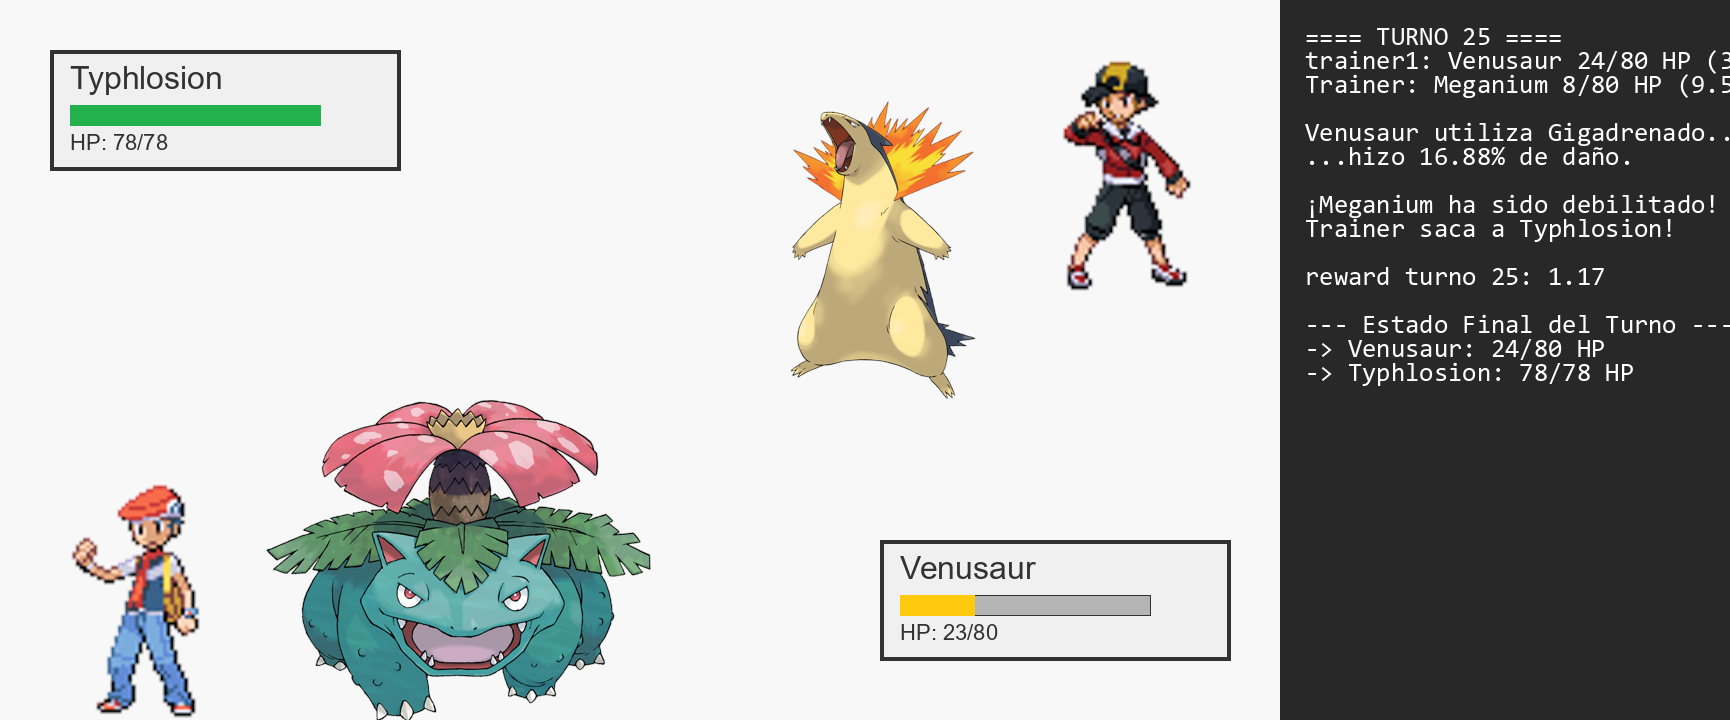
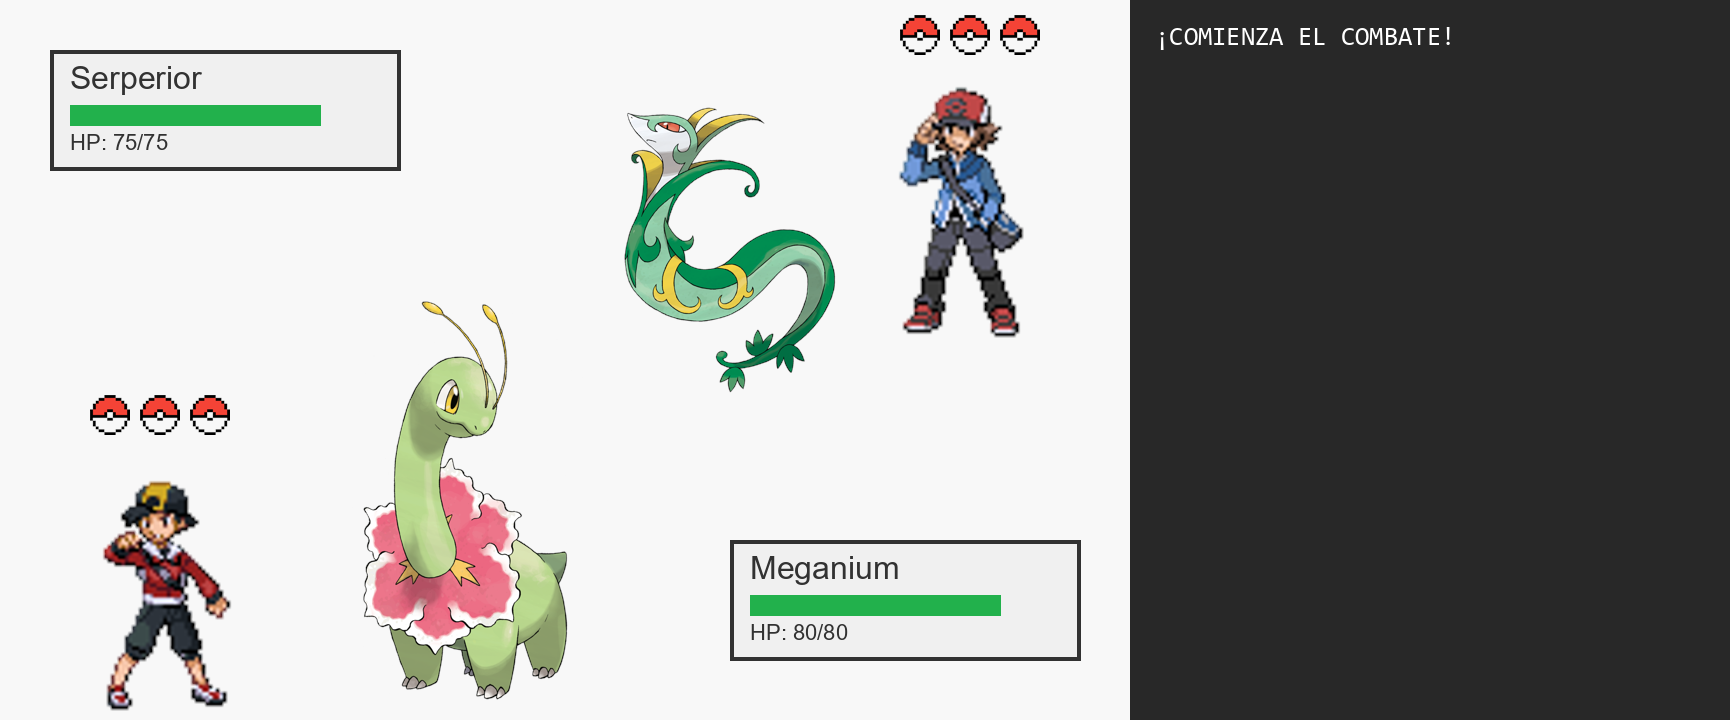
reward function mejorado, mejoras visuales, arreglo de bugs

diff --git a/image_generator.py b/image_generator.py
@@ -2,108 +2,111 @@
 
 from PIL import Image, ImageDraw, ImageFont
 from classes import Pokemon, Entrenador
-from data import crear_todos_los_entrenadores # Para probar
 
 # --- Constantes de configuración para la imagen ---
-ANCHO_AREA_BATALLA = 1280
-ANCHO_PANEL_TEXTO = 450
+ANCHO_AREA_BATALLA = 1130
+ANCHO_PANEL_TEXTO = 600
 ANCHO_CANVAS = ANCHO_AREA_BATALLA + ANCHO_PANEL_TEXTO
 ALTO_CANVAS = 720
+COLOR_FONDO_BATALLA, COLOR_PANEL_TEXTO, COLOR_TEXTO_PANEL = (248, 248, 248), (40, 40, 40), (255, 255, 255)
+TAMANIO_POKE_JUGADOR, TAMANIO_POKE_OPONENTE, TAMANIO_ENTRENADOR = (400, 400), (300, 300), (280, 280)
 
-# Colores
-COLOR_FONDO_BATALLA = (248, 248, 248)
-COLOR_PANEL_TEXTO = (40, 40, 40)
-COLOR_TEXTO_PANEL = (255, 255, 255)
-
-# Tamaños
-TAMANIO_POKE_JUGADOR = (400, 400)
-TAMANIO_POKE_OPONENTE = (300, 300)
-TAMANIO_ENTRENADOR = (280, 280)
-
-# Posiciones (x, y)
+# <<< POSICIONES AJUSTADAS >>>
 POS_ENTRENADOR_JUGADOR = (20, ALTO_CANVAS - TAMANIO_ENTRENADOR[1])
-POS_POKE_JUGADOR = (260, ALTO_CANVAS - TAMANIO_POKE_JUGADOR[1] + 40)
-POS_ENTRENADOR_OPONENTE = (ANCHO_AREA_BATALLA - TAMANIO_ENTRENADOR[0] - 20, 20)
+POS_POKE_JUGADOR = (260, ALTO_CANVAS - TAMANIO_POKE_JUGADOR[1] - 20) # Movido hacia arriba
+POS_ENTRENADOR_OPONENTE = (ANCHO_AREA_BATALLA - TAMANIO_ENTRENADOR[0] - 20, 60) # Movido hacia abajo
 POS_POKE_OPONENTE = (ANCHO_AREA_BATALLA - TAMANIO_POKE_OPONENTE[0] - 250, 100)
 
-# Barras de vida
-ANCHO_BARRA_VIDA = 250
-ALTO_BARRA_VIDA = 20
-COLOR_VERDE = (34, 177, 76)
-COLOR_AMARILLO = (255, 201, 14)
-COLOR_ROJO = (237, 28, 36)
-COLOR_BORDE_BARRA = (50, 50, 50)
+ANCHO_BARRA_VIDA, ALTO_BARRA_VIDA, COLOR_BORDE_BARRA = 250, 20, (50, 50, 50)
+COLOR_VERDE, COLOR_AMARILLO, COLOR_ROJO = (34, 177, 76), (255, 201, 14), (237, 28, 36)
 
+# <<< NUEVAS CONSTANTES PARA LAS POKÉ BALLS >>>
+TAMANIO_POKEBALL = (40, 40)
+ESPACIO_POKEBALL = 10
+POS_POKEBALLS_JUGADOR = (POS_ENTRENADOR_JUGADOR[0]+70, POS_ENTRENADOR_JUGADOR[1] - TAMANIO_POKEBALL[1] - 5)
+POS_POKEBALLS_OPONENTE = (POS_ENTRENADOR_OPONENTE[0]+70, POS_ENTRENADOR_OPONENTE[1] - TAMANIO_POKEBALL[1] - 5)
 
 def _get_color_vida(porcentaje_vida):
-    """Devuelve el color de la barra de vida según el porcentaje."""
-    if porcentaje_vida > 0.5:
-        return COLOR_VERDE
-    elif porcentaje_vida > 0.2:
-        return COLOR_AMARILLO
-    else:
-        return COLOR_ROJO
+    if porcentaje_vida > 0.5: return COLOR_VERDE
+    elif porcentaje_vida > 0.2: return COLOR_AMARILLO
+    else: return COLOR_ROJO
+
+def _dibujar_pokeballs(lienzo, pokeballs_vivas: int, pos_inicial: tuple, sprite_viva, sprite_derrotada):
+    """Función auxiliar para dibujar las 3 Poké Balls de estado."""
+    for i in range(3):
+        pos_x = pos_inicial[0] + i * (TAMANIO_POKEBALL[0] + ESPACIO_POKEBALL)
+        pos_y = pos_inicial[1]
+        
+        if i < pokeballs_vivas:
+            lienzo.paste(sprite_viva, (pos_x, pos_y), sprite_viva)
+        else:
+            lienzo.paste(sprite_derrotada, (pos_x, pos_y), sprite_derrotada)
 
 def crear_imagen_combate(
-    entrenador1: Entrenador, pokemon1: Pokemon, vida_actual1: float,
-    entrenador2: Entrenador, pokemon2: Pokemon, vida_actual2: float,
-    texto_combate: str,
+    entrenador1: Entrenador, entrenador2: Entrenador, texto_combate: str,
+    pokemon_left1: int, pokemon_left2: int, # <<< NUEVOS PARÁMETROS
+    pokemon1: Pokemon = None, vida_actual1: float = 0,
+    pokemon2: Pokemon = None, vida_actual2: float = 0,
     output_path="combate.png"
 ):
-    """
-    Crea una imagen estática de una escena de combate con un panel de texto.
-    """
     lienzo = Image.new('RGBA', (ANCHO_CANVAS, ALTO_CANVAS), COLOR_FONDO_BATALLA)
     
     try:
         sprite_entrenador1 = Image.open(entrenador1.imagen).convert("RGBA").resize(TAMANIO_ENTRENADOR)
         sprite_entrenador2 = Image.open(entrenador2.imagen).convert("RGBA").resize(TAMANIO_ENTRENADOR)
-        sprite_pokemon1 = Image.open(pokemon1.imagen).convert("RGBA").transpose(Image.FLIP_LEFT_RIGHT).resize(TAMANIO_POKE_JUGADOR)
-        sprite_pokemon2 = Image.open(pokemon2.imagen).convert("RGBA").resize(TAMANIO_POKE_OPONENTE)
-
         lienzo.paste(sprite_entrenador1, POS_ENTRENADOR_JUGADOR, sprite_entrenador1)
         lienzo.paste(sprite_entrenador2, POS_ENTRENADOR_OPONENTE, sprite_entrenador2)
-        lienzo.paste(sprite_pokemon1, POS_POKE_JUGADOR, sprite_pokemon1)
-        lienzo.paste(sprite_pokemon2, POS_POKE_OPONENTE, sprite_pokemon2)
+
+        if pokemon1:
+            sprite_pokemon1 = Image.open(pokemon1.imagen).convert("RGBA").transpose(Image.FLIP_LEFT_RIGHT).resize(TAMANIO_POKE_JUGADOR)
+            lienzo.paste(sprite_pokemon1, POS_POKE_JUGADOR, sprite_pokemon1)
+        if pokemon2:
+            sprite_pokemon2 = Image.open(pokemon2.imagen).convert("RGBA").resize(TAMANIO_POKE_OPONENTE)
+            lienzo.paste(sprite_pokemon2, POS_POKE_OPONENTE, sprite_pokemon2)
+
+        # <<< LÓGICA PARA DIBUJAR POKÉ BALLS >>>
+        pokeball_viva = Image.open("assets/images/other_images/pokeball.png").convert("RGBA").resize(TAMANIO_POKEBALL)
+        pokeball_derrotada = Image.open("assets/images/other_images/pokeball_derrotado.png").convert("RGBA").resize(TAMANIO_POKEBALL)
+        
+        _dibujar_pokeballs(lienzo, pokemon_left1, POS_POKEBALLS_JUGADOR, pokeball_viva, pokeball_derrotada)
+        _dibujar_pokeballs(lienzo, pokemon_left2, POS_POKEBALLS_OPONENTE, pokeball_viva, pokeball_derrotada)
+
     except FileNotFoundError as e:
-        print(f"Error al cargar imagen: {e}")
+        print(f"Error al cargar imagen: {e}. Verifica la ruta de las imágenes.")
         return
 
     draw = ImageDraw.Draw(lienzo)
     try:
-        font_nombre = ImageFont.truetype("arial.ttf", 32)
-        font_vida = ImageFont.truetype("arial.ttf", 22)
-        font_panel = ImageFont.truetype("consola.ttf", 26)
+        font_nombre = ImageFont.truetype("assets/ttf/arial.ttf", 32)
+        font_vida = ImageFont.truetype("assets/ttf/arial.ttf", 22)
+        font_panel = ImageFont.truetype("assets/ttf/consola.ttf", 26)
     except IOError:
         font_nombre = font_vida = font_panel = ImageFont.load_default()
 
-    # Caja del JUGADOR
-    caja_jugador_pos = (ANCHO_AREA_BATALLA - 400, ALTO_CANVAS - 180)
-    draw.rectangle((caja_jugador_pos[0], caja_jugador_pos[1], caja_jugador_pos[0] + 350, caja_jugador_pos[1] + 120), fill=(240, 240, 240), outline=COLOR_BORDE_BARRA, width=4)
-    draw.text((caja_jugador_pos[0] + 20, caja_jugador_pos[1] + 10), pokemon1.name, font=font_nombre, fill=COLOR_BORDE_BARRA)
-    porcentaje_vida_p1 = vida_actual1 / pokemon1.hp if pokemon1.hp > 0 else 0
-    ancho_vida_actual_p1 = int(ANCHO_BARRA_VIDA * porcentaje_vida_p1)
-    pos_barra_p1 = (caja_jugador_pos[0] + 20, caja_jugador_pos[1] + 55)
-    draw.text((caja_jugador_pos[0] + 20, caja_jugador_pos[1] + 80), f"HP: {int(vida_actual1)}/{pokemon1.hp}", font=font_vida, fill=COLOR_BORDE_BARRA)
-    draw.rectangle((pos_barra_p1[0], pos_barra_p1[1], pos_barra_p1[0] + ANCHO_BARRA_VIDA, pos_barra_p1[1] + ALTO_BARRA_VIDA), fill=(180, 180, 180), outline=COLOR_BORDE_BARRA)
-    if ancho_vida_actual_p1 > 0:
-        draw.rectangle((pos_barra_p1[0], pos_barra_p1[1], pos_barra_p1[0] + ancho_vida_actual_p1, pos_barra_p1[1] + ALTO_BARRA_VIDA), fill=_get_color_vida(porcentaje_vida_p1))
+    if pokemon1:
+        caja_jugador_pos = (ANCHO_AREA_BATALLA - 400, ALTO_CANVAS - 180)
+        draw.rectangle((caja_jugador_pos[0], caja_jugador_pos[1], caja_jugador_pos[0] + 350, caja_jugador_pos[1] + 120), fill=(240, 240, 240), outline=COLOR_BORDE_BARRA, width=4)
+        draw.text((caja_jugador_pos[0] + 20, caja_jugador_pos[1] + 10), pokemon1.name, font=font_nombre, fill=COLOR_BORDE_BARRA)
+        porcentaje_vida_p1 = vida_actual1 / pokemon1.hp if pokemon1.hp > 0 else 0
+        ancho_vida_actual_p1 = int(ANCHO_BARRA_VIDA * porcentaje_vida_p1)
+        pos_barra_p1 = (caja_jugador_pos[0] + 20, caja_jugador_pos[1] + 55)
+        draw.text((caja_jugador_pos[0] + 20, caja_jugador_pos[1] + 80), f"HP: {int(vida_actual1)}/{pokemon1.hp}", font=font_vida, fill=COLOR_BORDE_BARRA)
+        draw.rectangle((pos_barra_p1[0], pos_barra_p1[1], pos_barra_p1[0] + ANCHO_BARRA_VIDA, pos_barra_p1[1] + ALTO_BARRA_VIDA), fill=(180, 180, 180), outline=COLOR_BORDE_BARRA)
+        if ancho_vida_actual_p1 > 0:
+            draw.rectangle((pos_barra_p1[0], pos_barra_p1[1], pos_barra_p1[0] + ancho_vida_actual_p1, pos_barra_p1[1] + ALTO_BARRA_VIDA), fill=_get_color_vida(porcentaje_vida_p1))
 
-    # Caja del OPONENTE
-    caja_oponente_pos = (50, 50)
-    draw.rectangle((caja_oponente_pos[0], caja_oponente_pos[1], caja_oponente_pos[0] + 350, caja_oponente_pos[1] + 120), fill=(240, 240, 240), outline=COLOR_BORDE_BARRA, width=4)
-    draw.text((caja_oponente_pos[0] + 20, caja_oponente_pos[1] + 10), pokemon2.name, font=font_nombre, fill=COLOR_BORDE_BARRA)
-    
-    # <<< CAMBIO: Se añade el texto del HP del rival >>>
-    porcentaje_vida_p2 = vida_actual2 / pokemon2.hp if pokemon2.hp > 0 else 0
-    draw.text((caja_oponente_pos[0] + 20, caja_oponente_pos[1] + 80), f"HP: {int(vida_actual2)}/{pokemon2.hp}", font=font_vida, fill=COLOR_BORDE_BARRA)
-    ancho_vida_actual_p2 = int(ANCHO_BARRA_VIDA * porcentaje_vida_p2)
-    pos_barra_p2 = (caja_oponente_pos[0] + 20, caja_oponente_pos[1] + 55)
-    draw.rectangle((pos_barra_p2[0], pos_barra_p2[1], pos_barra_p2[0] + ANCHO_BARRA_VIDA, pos_barra_p2[1] + ALTO_BARRA_VIDA), fill=(180, 180, 180), outline=COLOR_BORDE_BARRA)
-    if ancho_vida_actual_p2 > 0:
-        draw.rectangle((pos_barra_p2[0], pos_barra_p2[1], pos_barra_p2[0] + ancho_vida_actual_p2, pos_barra_p2[1] + ALTO_BARRA_VIDA), fill=_get_color_vida(porcentaje_vida_p2))
+    if pokemon2:
+        caja_oponente_pos = (50, 50)
+        draw.rectangle((caja_oponente_pos[0], caja_oponente_pos[1], caja_oponente_pos[0] + 350, caja_oponente_pos[1] + 120), fill=(240, 240, 240), outline=COLOR_BORDE_BARRA, width=4)
+        draw.text((caja_oponente_pos[0] + 20, caja_oponente_pos[1] + 10), pokemon2.name, font=font_nombre, fill=COLOR_BORDE_BARRA)
+        porcentaje_vida_p2 = vida_actual2 / pokemon2.hp if pokemon2.hp > 0 else 0
+        draw.text((caja_oponente_pos[0] + 20, caja_oponente_pos[1] + 80), f"HP: {int(vida_actual2)}/{pokemon2.hp}", font=font_vida, fill=COLOR_BORDE_BARRA)
+        ancho_vida_actual_p2 = int(ANCHO_BARRA_VIDA * porcentaje_vida_p2)
+        pos_barra_p2 = (caja_oponente_pos[0] + 20, caja_oponente_pos[1] + 55)
+        draw.rectangle((pos_barra_p2[0], pos_barra_p2[1], pos_barra_p2[0] + ANCHO_BARRA_VIDA, pos_barra_p2[1] + ALTO_BARRA_VIDA), fill=(180, 180, 180), outline=COLOR_BORDE_BARRA)
+        if ancho_vida_actual_p2 > 0:
+            draw.rectangle((pos_barra_p2[0], pos_barra_p2[1], pos_barra_p2[0] + ancho_vida_actual_p2, pos_barra_p2[1] + ALTO_BARRA_VIDA), fill=_get_color_vida(porcentaje_vida_p2))
 
-    # Panel de texto
     pos_panel = (ANCHO_AREA_BATALLA, 0)
     draw.rectangle((pos_panel[0], pos_panel[1], ANCHO_CANVAS, ALTO_CANVAS), fill=COLOR_PANEL_TEXTO)
     draw.multiline_text((pos_panel[0] + 25, 25), texto_combate, font=font_panel, fill=COLOR_TEXTO_PANEL)

diff --git a/reward.py b/reward.py
@@ -1,7 +1,22 @@
 # reward.py
 
-# Importamos la función de cálculo de efectividad para no reescribir código
 from danio import calcular_efectividad
+
+def _calcular_mejor_efectividad_posible(pokemon_jugador, pokemon_oponente):
+    """
+    Calcula la máxima efectividad que el Pokémon del jugador podría alcanzar
+    contra el oponente actual usando cualquiera de sus movimientos.
+    """
+    if not pokemon_jugador.movimientos: return 0
+    mejor_efectividad = 0
+    for mov in pokemon_jugador.movimientos:
+        efectividad_actual = (
+            calcular_efectividad(mov.type, pokemon_oponente.type1) *
+            calcular_efectividad(mov.type, pokemon_oponente.type2)
+        )
+        if efectividad_actual > mejor_efectividad:
+            mejor_efectividad = efectividad_actual
+    return mejor_efectividad
 
 def calcular_reward_turno(
     danio_hecho: float,
@@ -9,42 +24,53 @@ def calcular_reward_turno(
     pokemon_jugador,
     pokemon_oponente,
     movimiento_jugador,
-    movimiento_oponente
+    movimiento_oponente,
+    oponente_pre_cambio=None,
+    # <<< NUEVOS PARÁMETROS >>>
+    vida_oponente_antes_ko=None,
+    vida_jugador_antes_ko=None
 ) -> float:
     """
     Calcula la recompensa para el jugador basándose en el resultado del turno.
-
-    La fórmula es:
-    (%daño hecho - %daño recibido) * efectividad_ofensiva / efectividad_defensiva
     """
+    oponente_real_del_turno = oponente_pre_cambio if oponente_pre_cambio else pokemon_oponente
     
-    # 1. Calcular el daño como porcentaje de la vida máxima
-    # Se evita dividir por cero si un Pokémon tiene 0 HP (aunque no debería pasar)
-    porc_danio_hecho = (danio_hecho / pokemon_oponente.hp) if pokemon_oponente.hp > 0 else 1
-    porc_danio_recibido = (danio_recibido / pokemon_jugador.hp)  if pokemon_jugador.hp > 0 else 1
+    # <<< LÓGICA DE CÁLCULO DE DAÑO PORCENTUAL ACTUALIZADA >>>
+    if vida_oponente_antes_ko is not None:
+        # Si hubo un KO ofensivo, el "daño" es 1 (por el KO) + el % de vida que le quedaba.
+        porc_danio_hecho = 1.0 + (vida_oponente_antes_ko / oponente_real_del_turno.hp)
+    else:
+        # Cálculo normal si no hubo KO.
+        porc_danio_hecho = (danio_hecho / oponente_real_del_turno.hp) if oponente_real_del_turno.hp > 0 else 0
 
-    # 2. Calcular la efectividad del ataque del jugador
-    efectividad_ofensiva = (
-        calcular_efectividad(movimiento_jugador.type, pokemon_oponente.type1) *
-        calcular_efectividad(movimiento_jugador.type, pokemon_oponente.type2)
-    )
+    if vida_jugador_antes_ko is not None:
+        # Si hubo un KO defensivo, el "daño" es 1 (por el KO) + el % de vida que te quedaba.
+        porc_danio_recibido = 1.0 + (vida_jugador_antes_ko / pokemon_jugador.hp)
+    else:
+        # Cálculo normal si no hubo KO.
+        porc_danio_recibido = (danio_recibido / pokemon_jugador.hp) if pokemon_jugador.hp > 0 else 0
 
-    # 3. Calcular la efectividad del ataque del oponente
+    # Lógica de efectividad ofensiva (sin cambios)
+    if movimiento_jugador.name == "Cambio":
+        efectividad_ofensiva = _calcular_mejor_efectividad_posible(pokemon_jugador, oponente_real_del_turno)
+    else:
+        efectividad_ofensiva = (
+            calcular_efectividad(movimiento_jugador.type, oponente_real_del_turno.type1) *
+            calcular_efectividad(movimiento_jugador.type, oponente_real_del_turno.type2)
+        )
+
+    # Lógica de efectividad defensiva (sin cambios)
     efectividad_defensiva = (
         calcular_efectividad(movimiento_oponente.type, pokemon_jugador.type1) *
         calcular_efectividad(movimiento_oponente.type, pokemon_jugador.type2)
     )
     
-    # 4. Evitar la división por cero si el ataque del oponente era inmune
-    # Si el ataque rival es inmune (efectividad 0), es muy bueno para nosotros,
-    # por lo que usamos un divisor pequeño para que la recompensa sea alta.
     if efectividad_defensiva == 0:
-        efectividad_defensiva = 0.01 # Equivalente a "muy muy poco efectivo"
+        efectividad_defensiva = 0.01
 
-    # 5. Aplicar la fórmula final
+    # Fórmula final (sin cambios)
     diferencial_danio = porc_danio_hecho - porc_danio_recibido
     modificador_efectividad = efectividad_ofensiva / efectividad_defensiva
-    
     reward = diferencial_danio + modificador_efectividad - 1
     
     return reward
